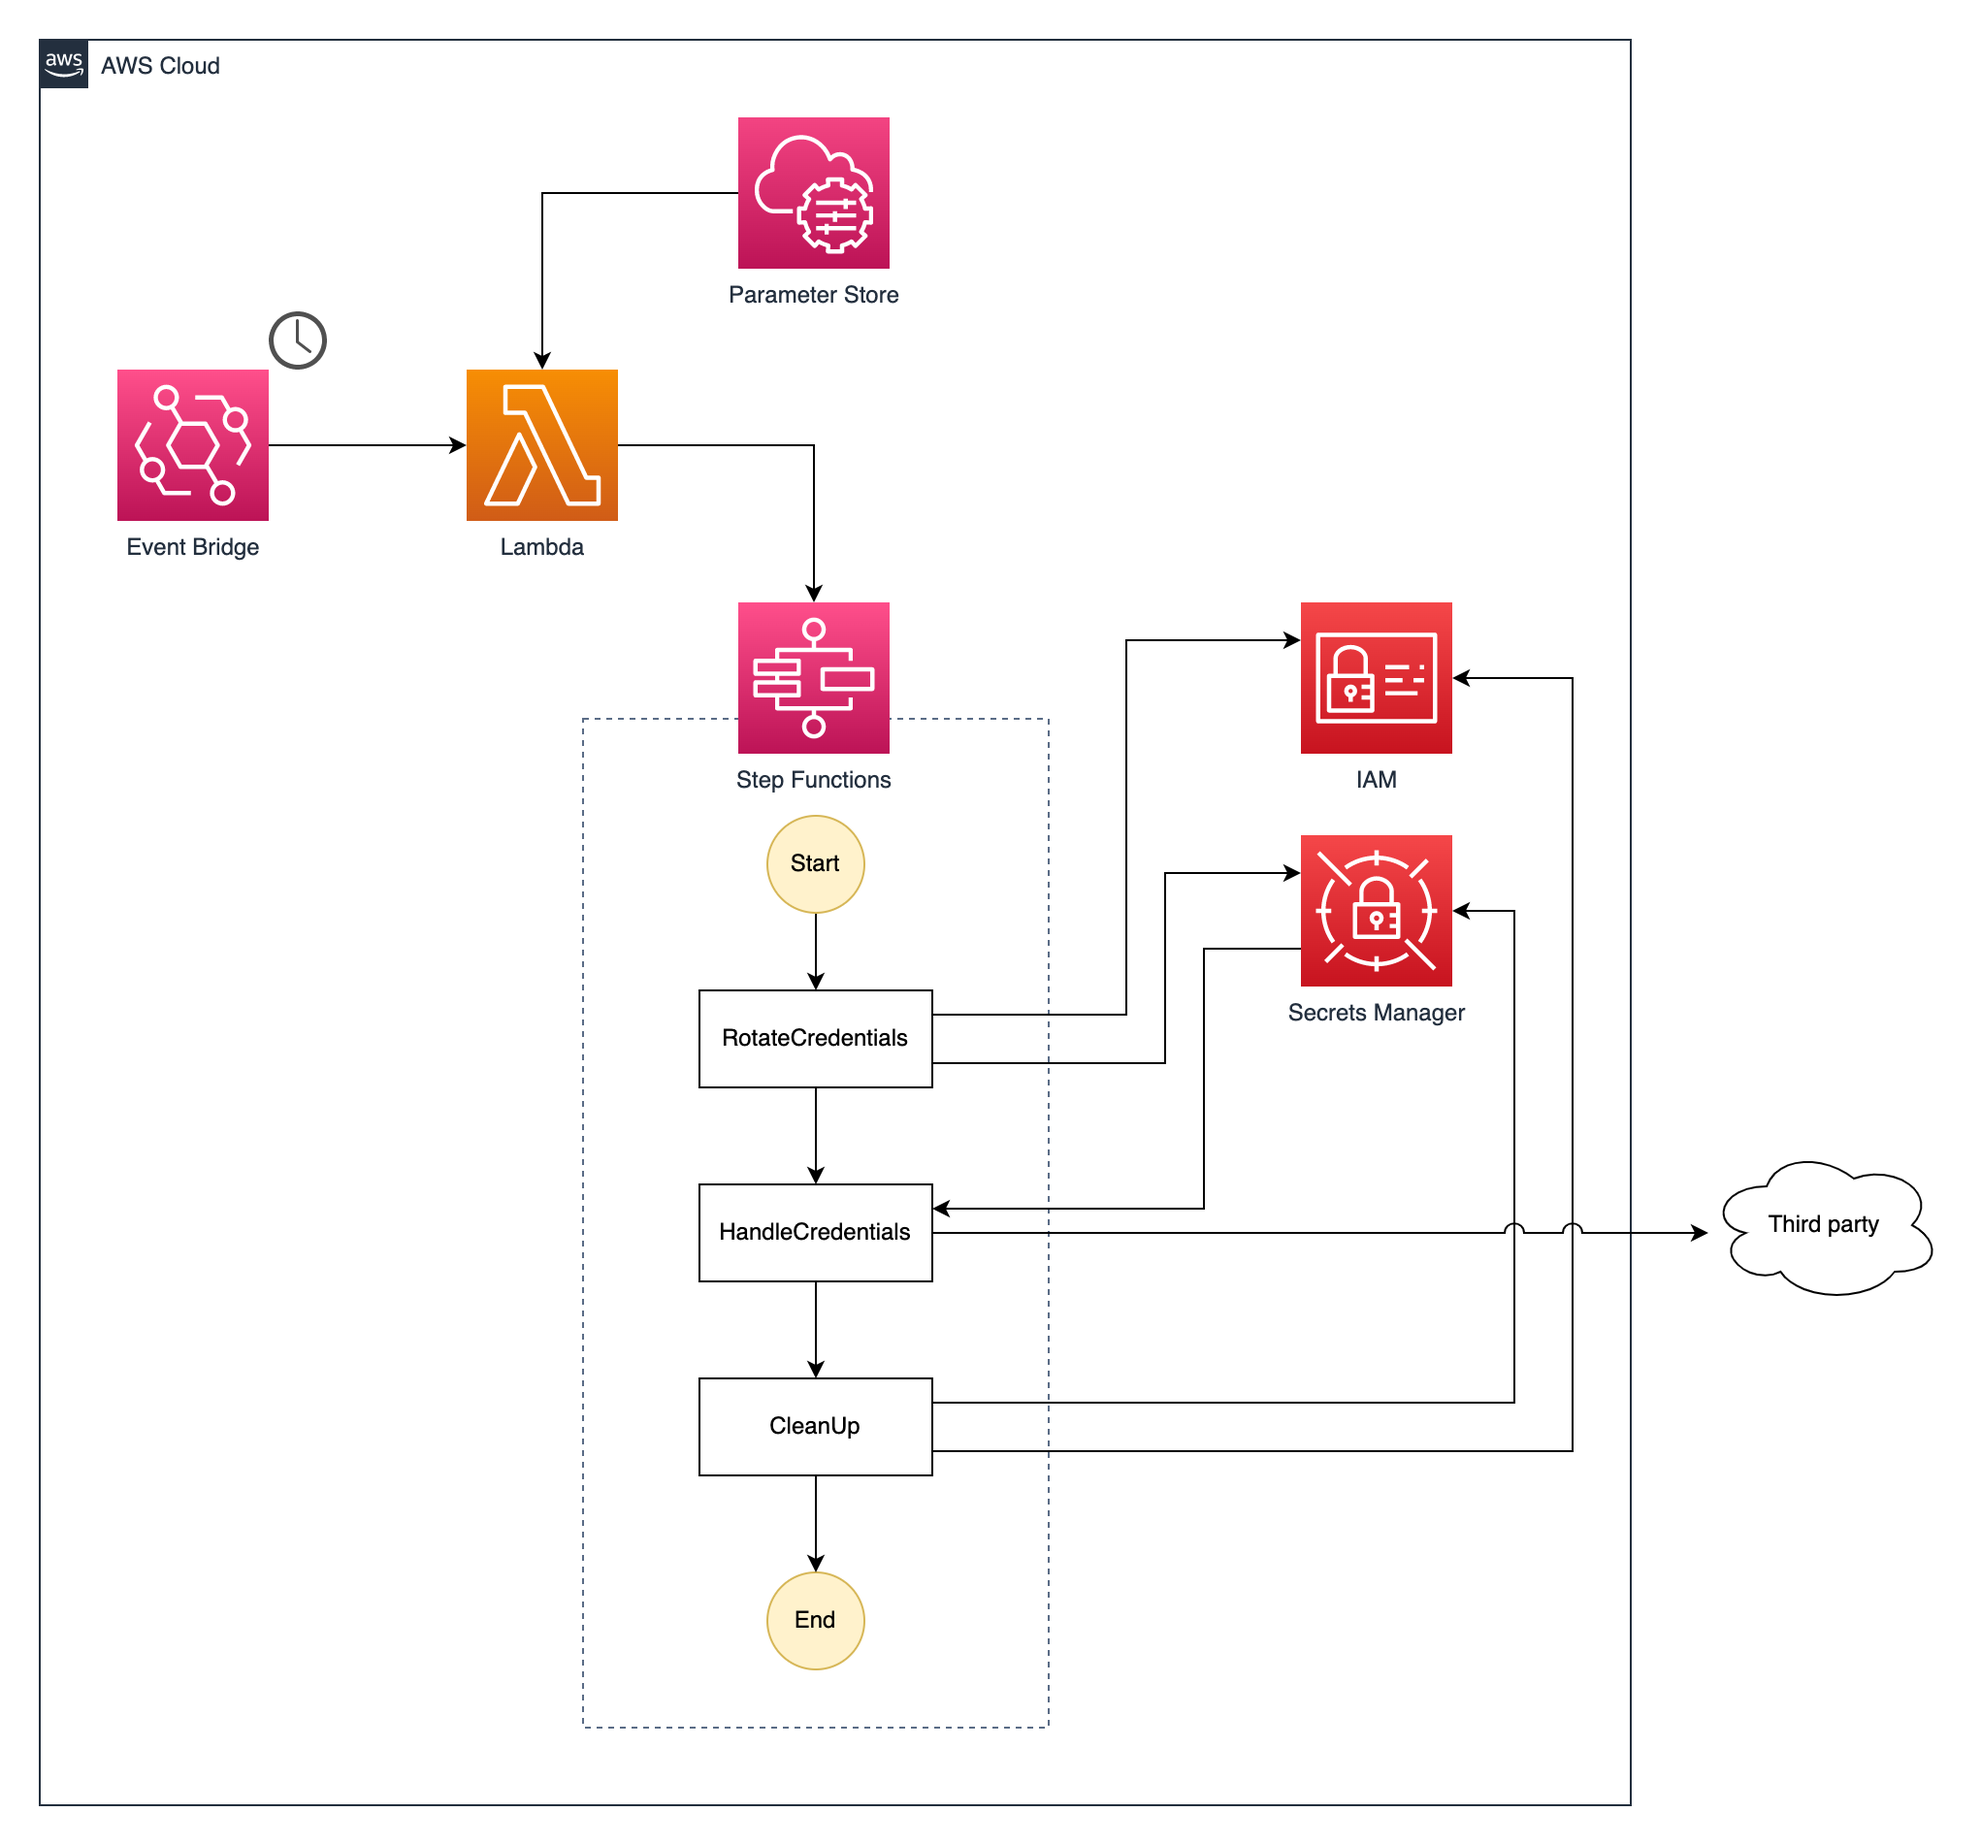
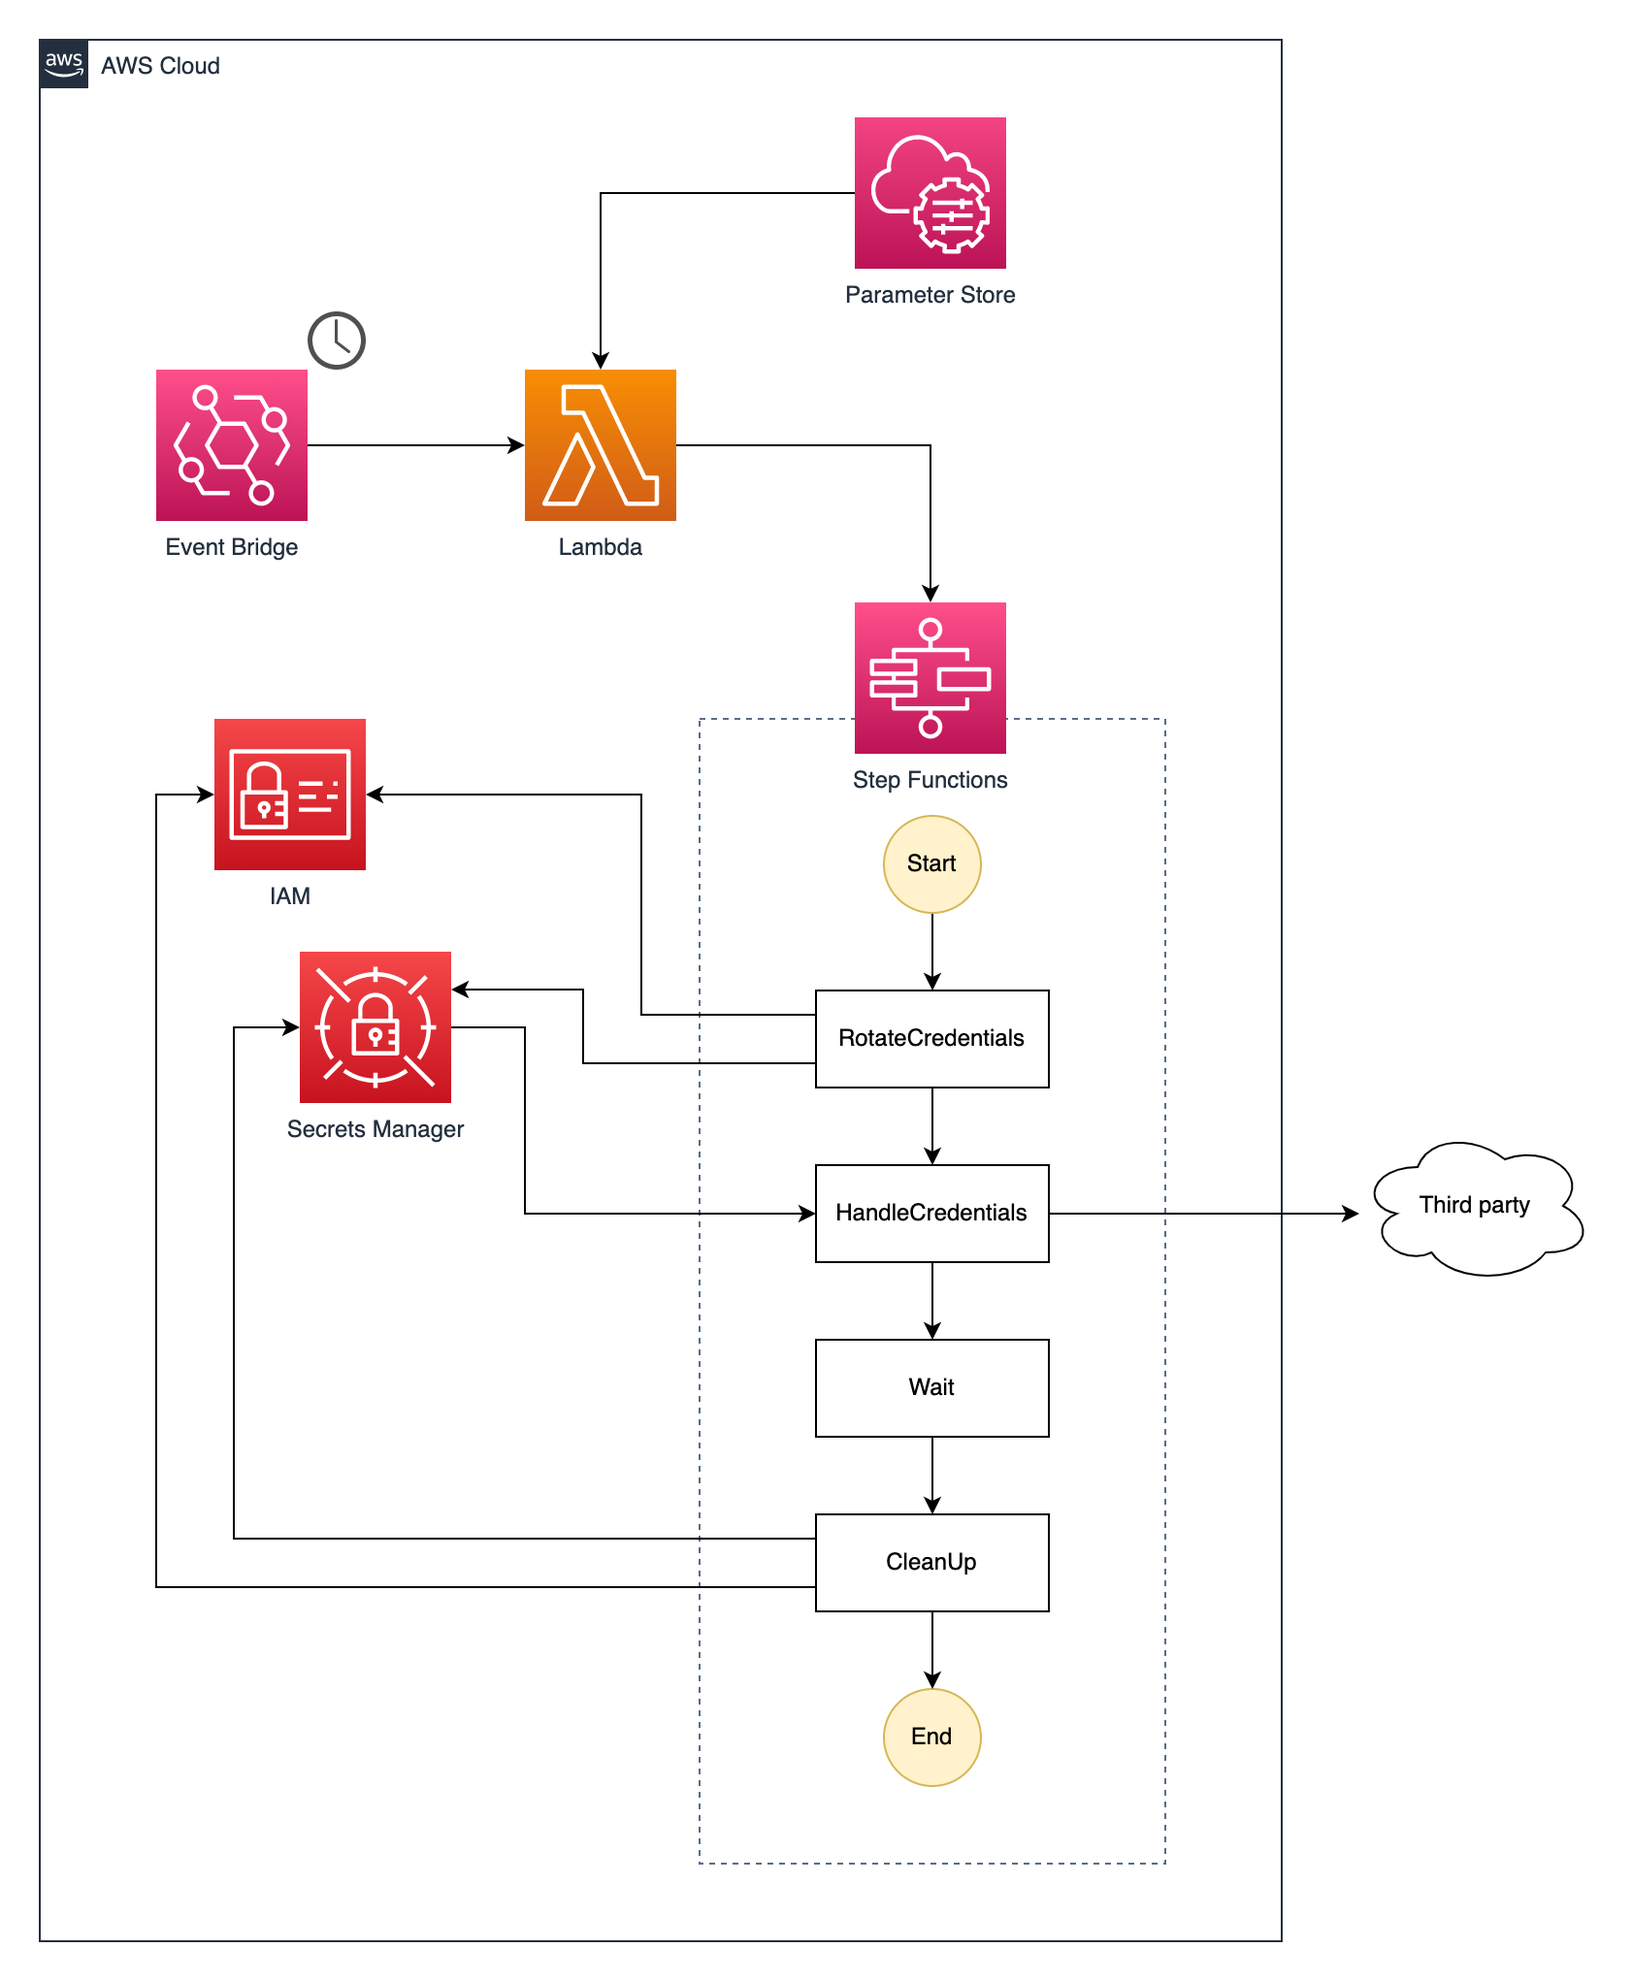
feat: added configurable 'wait' step to state machine

diff --git a/src/iam-credentials-rotator.ts b/src/iam-credentials-rotator.ts
@@ -26,6 +26,13 @@ export interface IIamCredentialsRotatorProps {
    * @default 1 hour
    */
   readonly scheduleDuration?: Duration;
+  /**
+   * The amount of time to wait before deleting old credentials.
+   *
+   * This value MUST be significantly less-than `scheduleDuration`.
+   * @default 5 minutes
+   */
+  readonly cleanupWaitDuration?: Duration;
 }
 
 export class IamCredentialsRotator extends Construct {
@@ -122,8 +129,16 @@ export class IamCredentialsRotator extends Construct {
       inputPath: '$.Payload',
     });
 
+    const waitBeforeCleanup = new sfn.Wait(this, 'Wait', {
+      time: sfn.WaitTime.duration(
+        props.cleanupWaitDuration || Duration.minutes(5),
+      ),
+    });
+
     const definition = credentialsRotatorLambdaTask.next(
-      credentialsHandlerLambdaTask.next(cleanupLambdaTask),
+      credentialsHandlerLambdaTask.next(
+        waitBeforeCleanup.next(cleanupLambdaTask),
+      ),
     );
 
     const stateMachine = new sfn.StateMachine(

diff --git a/README.md b/README.md
@@ -7,7 +7,7 @@ AWS CDK construct for rotating IAM user credentials and sending to a third party
 Simply provide a list of usernames of IAM users which exist in the target account and a Lambda function to handle the newly created credentials for a given user.
 
 ```typescript
-const credentialsHandler = new lambda.Function(this, 'MyCredentialsHandler', {
+const myCredentialsHandler = new lambda.Function(this, 'MyCredentialsHandler', {
   handler: 'index.handler',
   code: lambda.Code.fromAsset('path/to/your/code'),
   runtime: lambda.Runtime.NODEJS_14_X,
@@ -15,11 +15,11 @@ const credentialsHandler = new lambda.Function(this, 'MyCredentialsHandler', {
 
 new IamCredentialsRotator(this, 'MyCredentialsRotator', {
   usernames: ['homer', 'marge', 'bart', 'lisa', 'maggie'],
-  credentialsHandler,
+  credentialsHandler: myCredentialsHandler,
 });
 ```
 
-The Lambda function, `credentialsHandler` is called immediately after a new access key is created for a user. The newly created credentials must be retrieved from AWS Secrets Manager using the secret name passed in to the function. 
+The Lambda function, `credentialsHandler`, is called immediately after a new access key is created for a user. The newly created credentials must be retrieved from AWS Secrets Manager using the secret name passed in to the function. 
 
 By default, credentials are rotated once an hour. This can be changed by providing `scheduleDuration` in the constructor.
 
@@ -50,7 +50,9 @@ export async function handler(event: Event) {
 }
 ```
 
-Once your function exits the secret will be deleted from AWS Secrets Manager and old credentials for the user are also deleted at this step.
+Once your function exits the underlying AWS Step Functions workflow will wait a period of time before deleting the old credentials. During this period both the old and new credentials for the user exist. At the end of this period the old credentials are deleted.
+
+The amount of time to wait before deleting old credentials defaults to 5 minutes and can be adjusted by setting `cleanupWaitDuration`. This value MUST be less-than `scheduleDuration`.
 
 ## Architecture
 

diff --git a/API.md b/API.md
@@ -116,6 +116,7 @@ The tree node.
 | --- | --- | --- |
 | <code><a href="#cdk-iam-credentials-rotator.IIamCredentialsRotatorProps.property.credentialsHandler">credentialsHandler</a></code> | <code>aws-cdk-lib.aws_lambda.IFunction</code> | Lambda function which is invoked after new credentials are created for a user. |
 | <code><a href="#cdk-iam-credentials-rotator.IIamCredentialsRotatorProps.property.usernames">usernames</a></code> | <code>string[]</code> | List of IAM usernames in target account. |
+| <code><a href="#cdk-iam-credentials-rotator.IIamCredentialsRotatorProps.property.cleanupWaitDuration">cleanupWaitDuration</a></code> | <code>aws-cdk-lib.Duration</code> | The amount of time to wait before deleting old credentials. |
 | <code><a href="#cdk-iam-credentials-rotator.IIamCredentialsRotatorProps.property.scheduleDuration">scheduleDuration</a></code> | <code>aws-cdk-lib.Duration</code> | Frequency of key rotation. |
 
 ---
@@ -141,6 +142,21 @@ public readonly usernames: string[];
 - *Type:* string[]
 
 List of IAM usernames in target account.
+
+---
+
+##### `cleanupWaitDuration`<sup>Optional</sup> <a name="cleanupWaitDuration" id="cdk-iam-credentials-rotator.IIamCredentialsRotatorProps.property.cleanupWaitDuration"></a>
+
+```typescript
+public readonly cleanupWaitDuration: Duration;
+```
+
+- *Type:* aws-cdk-lib.Duration
+- *Default:* 5 minutes
+
+The amount of time to wait before deleting old credentials.
+
+This value MUST be significantly less-than `scheduleDuration`.
 
 ---
 
